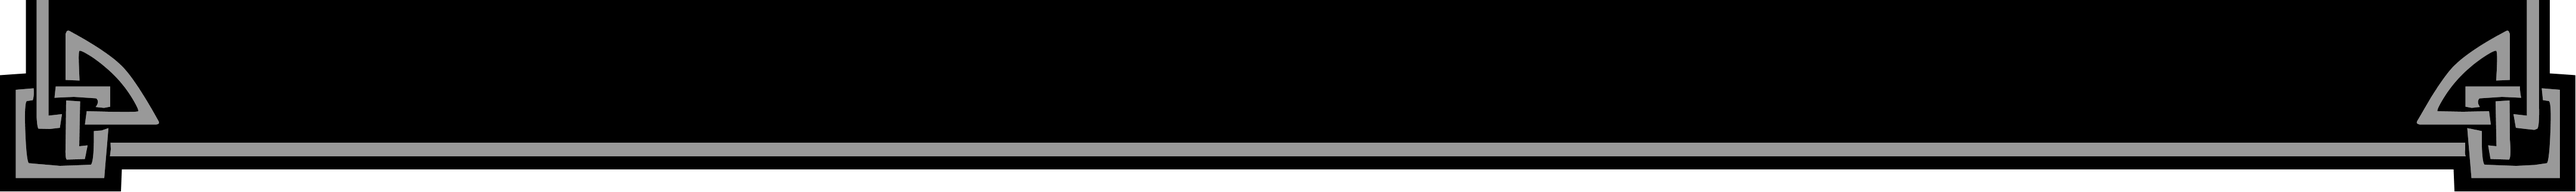
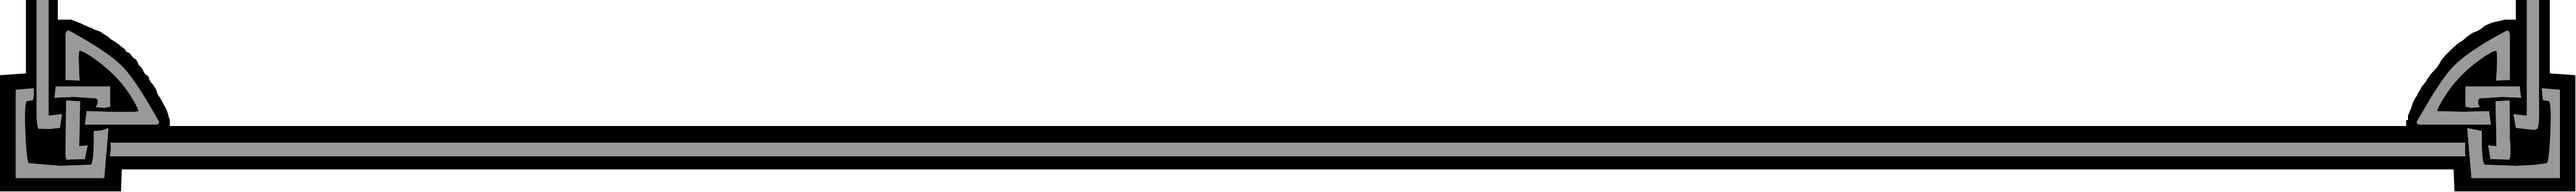
Updated framing for infobox image

diff --git a/src/pages/dranleic-haligdrake.jsx b/src/pages/dranleic-haligdrake.jsx
@@ -14,8 +14,10 @@ import sources from "../data/sources/dranleic.json";
 
 import DialogueSelectorStart from "../assets/Dialogue_Selector_Start.png"
 import DialogueSelectorEnd from "../assets/Dialogue_Selector_End.png"
-import previewFrameBottom from "../assets/Info_Card_Small_Bottom.png"
-import previewFrameTop from "../assets/Info_Card_Small_Top.png"
+import previewFrameBottom from "../assets/Info_Card_Small_Bottom_Preview.png"
+import previewFrameTop from "../assets/Info_Card_Small_Top_Preview.png"
+import infoboxImageFrameBottom from "../assets/Info_Card_Small_Bottom.png"
+import infoboxImageFrameTop from "../assets/Info_Card_Small_Top.png"
 import CaptionBackgroundLeft from "../assets/Journal_Main_Quest_Caption_Left.png"
 import CaptionBackgroundRight from "../assets/Journal_Main_Quest_Caption_Right.png"
 import infoboxBackground from "../assets/Main Menu.png"
@@ -29,6 +31,7 @@ export function Dranleic() {
     const contentRef = useRef(null);
     const [tocHidden, setTocHidden] = useState(false);
     const {t} = useTranslation("dranleic");
+    const [imageWidth, setImageWidth] = useState(0);
 
     return (
         <FootnoteProvider sources={sources}>
@@ -83,14 +86,14 @@ export function Dranleic() {
                                     </caption>
                                     <thead className="infobox-image-header">
                                         <tr>
-                                            <td colSpan="2" className="infobox-img">
+                                            <td colSpan="2" className="infobox-img" style={{ "--imageWidth": imageWidth }}>
                                                 <div className="infobox-image-frame" aria-hidden="true">
                                                     <div className="infobox-image-frame__middle" />
-                                                    <img className="infobox-image-frame__top" src={previewFrameTop} alt="" />
-                                                    <img className="infobox-image-frame__bottom" src={previewFrameBottom} alt="" />
+                                                    <img className="infobox-image-frame__top" src={infoboxImageFrameTop} />
+                                                    <img className="infobox-image-frame__bottom" src={infoboxImageFrameBottom} />
                                                 </div>
                                                 <ImageModal>
-                                                    <img src={"/dranleic-haligdrake-powerful-clenched-fist2.jpg"} alt="Dranleic Haligdrake" height="155" width="170" className="mw-file-upright" />
+                                                    <img id="profile-img" ref={(el) => { if (el?.complete) setImageWidth(el.naturalWidth); }} onLoad={(e) => setImageWidth(e.currentTarget.naturalWidth)} src={"/dranleic-haligdrake-powerful-clenched-fist2.jpg"} alt="Dranleic Haligdrake" className="mw-file-upright" />
                                                 </ImageModal>
                                             </td>
                                         </tr>

diff --git a/src/pages/characterPage.css b/src/pages/characterPage.css
@@ -1,4 +1,5 @@
 
+
 .mw-page-container {
     max-width: 90rem;
     margin: 0 auto;
@@ -167,11 +168,13 @@ section:last-of-type {
 .infobox-image-header .infobox-img {
     position: relative;
     isolation: isolate;
+    padding: 4px;
 }
 
 .infobox-image-frame {
-    inset: -3% 0;
-    z-index: -1;
+    --frame-scale: 100;
+    inset: 0 calc((100 - var(--frame-scale)) / 2.5  * 1%);
+    z-index: 0;
 }
 
 .infobox-image-header .infobox-img > a {
@@ -246,11 +249,36 @@ section:last-of-type {
 }
  
 img.mw-file-upright {
-    width: 95%;
+    width: 100%;
     height: auto;
     aspect-ratio: 54 / 50; /* make this wider (e.g. 1 / 1) to crop less on the sides */
     object-fit: cover; /* "contain" shows the whole image, with no cropping */
     vertical-align: middle;
+    z-index: 0;
+}
+@media (min-width: 648px) {
+    .infobox-image-frame {
+        --frame-scale: 90;
+    }
+    img.mw-file-upright {
+        width: 90%;
+    }
+}
+@media (min-width: 1280px) {
+    .infobox-image-frame {
+        --frame-scale: 95;
+    }
+    img.mw-file-upright {
+        width: 95%;
+    }
+}
+@media (min-width: 1440px) {
+    .infobox-image-frame {
+        --frame-scale: 100;
+    }
+    img.mw-file-upright {
+        width: 100%;
+    }
 }
 
 /*--------------------- PAGE QUOTE ---------------------*/

diff --git a/src/components/LinkPreview.jsx b/src/components/LinkPreview.jsx
@@ -14,8 +14,8 @@ import {
 import { useTranslation } from "react-i18next";
 import { Link, useLocation } from "react-router-dom";
 import previewArrow from "../assets/Down_Arrow-More_Settings.png";
-import previewFrameBottom from "../assets/Info_Card_Small_Bottom.png";
-import previewFrameTop from "../assets/Info_Card_Small_Top.png";
+import previewFrameBottom from "../assets/Info_Card_Small_Bottom_Preview.png"
+import previewFrameTop from "../assets/Info_Card_Small_Top_Preview.png"
 import "./LinkPreview.css";
 
 function renderInlineMarkdown(text) {

diff --git a/src/index.css b/src/index.css
@@ -208,8 +208,13 @@ a {
   bottom: 0;
 }
 
-:is(.infobox-image-frame__middle, .wiki-preview-frame__middle) {
+:is(.infobox-image-frame__middle) {
   position: absolute;
   inset: 7.47cqw 0;
   background: url("./assets/Info_Card_Small_Mid.png") center top / 100% auto repeat-y;
+}
+:is(.wiki-preview-frame__middle) {
+  position: absolute;
+  inset: 7.47cqw 0;
+  background: url("./assets/Info_Card_Small_Mid_Preview.png") center top / 100% auto repeat-y;
 }
